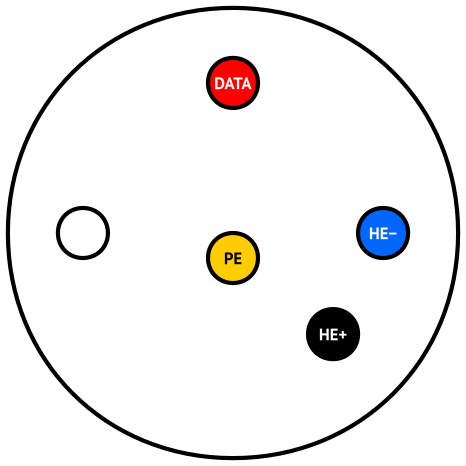
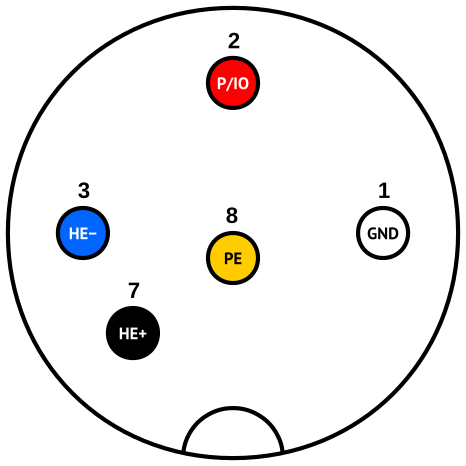
Doc: Make i-Tool connector pinout picture more accurate

diff --git a/doc/i-con.md b/doc/i-con.md
@@ -31,8 +31,8 @@ Internal in station
 
 ![Internal 6-pin connector](img/connector-stocko-6pin.png)
 
-Connector on i-Tool (_mirrored_)
---------------------------------
+Connector on i-Tool
+-------------------
 
 ![i-Tool DIN connector](img/connector-din-itool.png)
 
